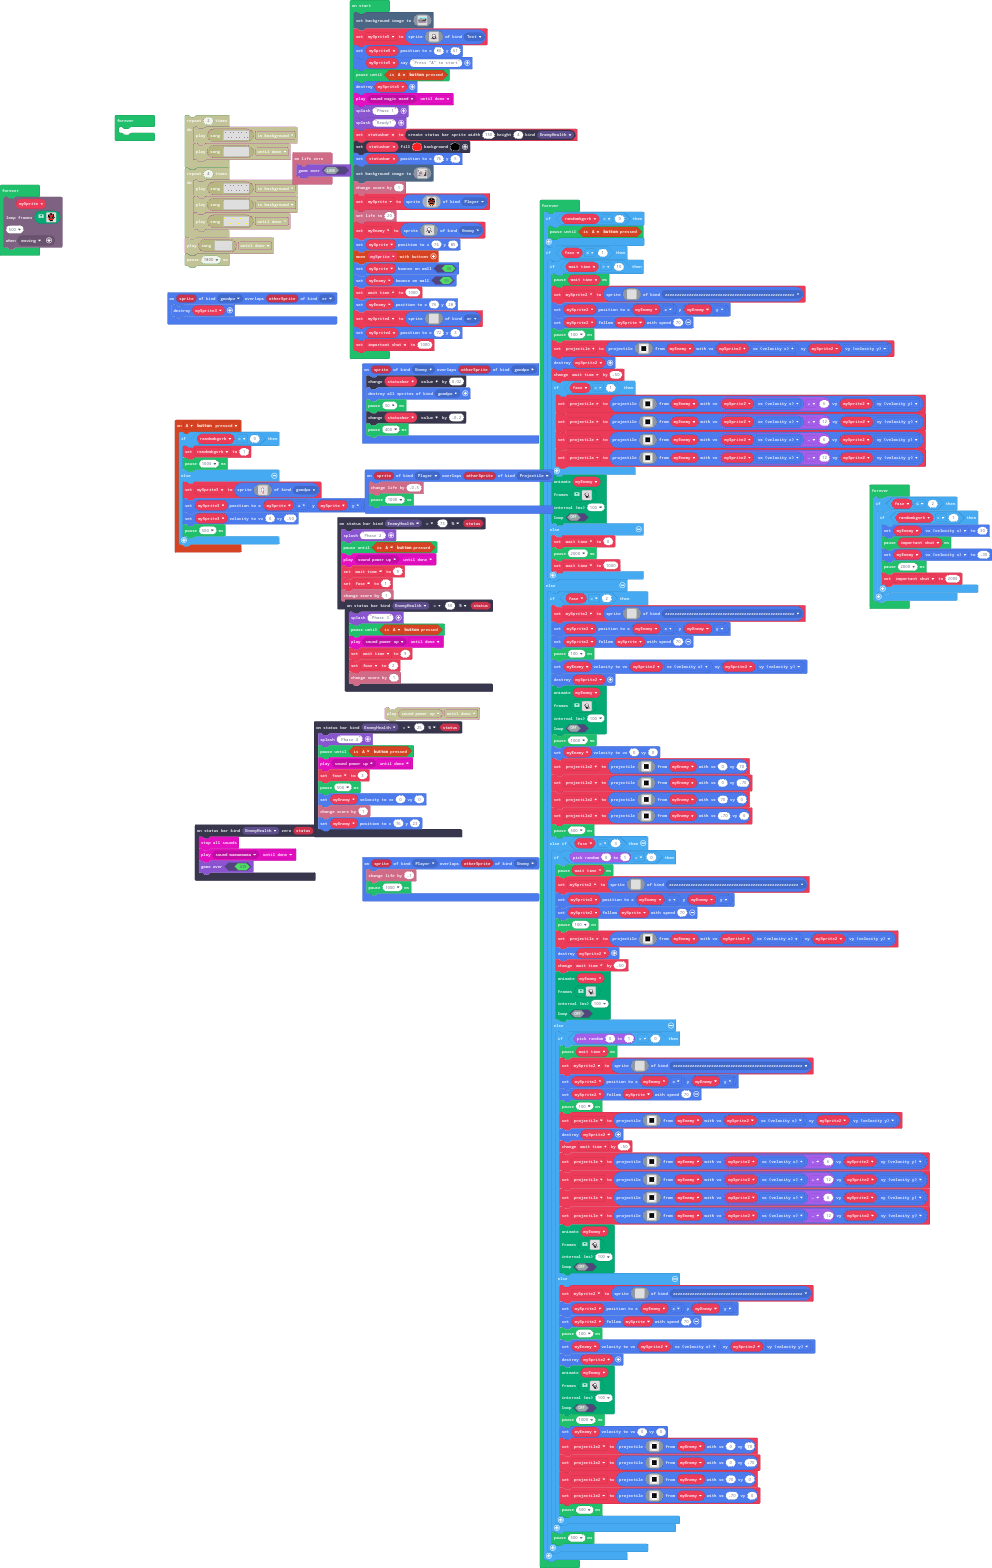
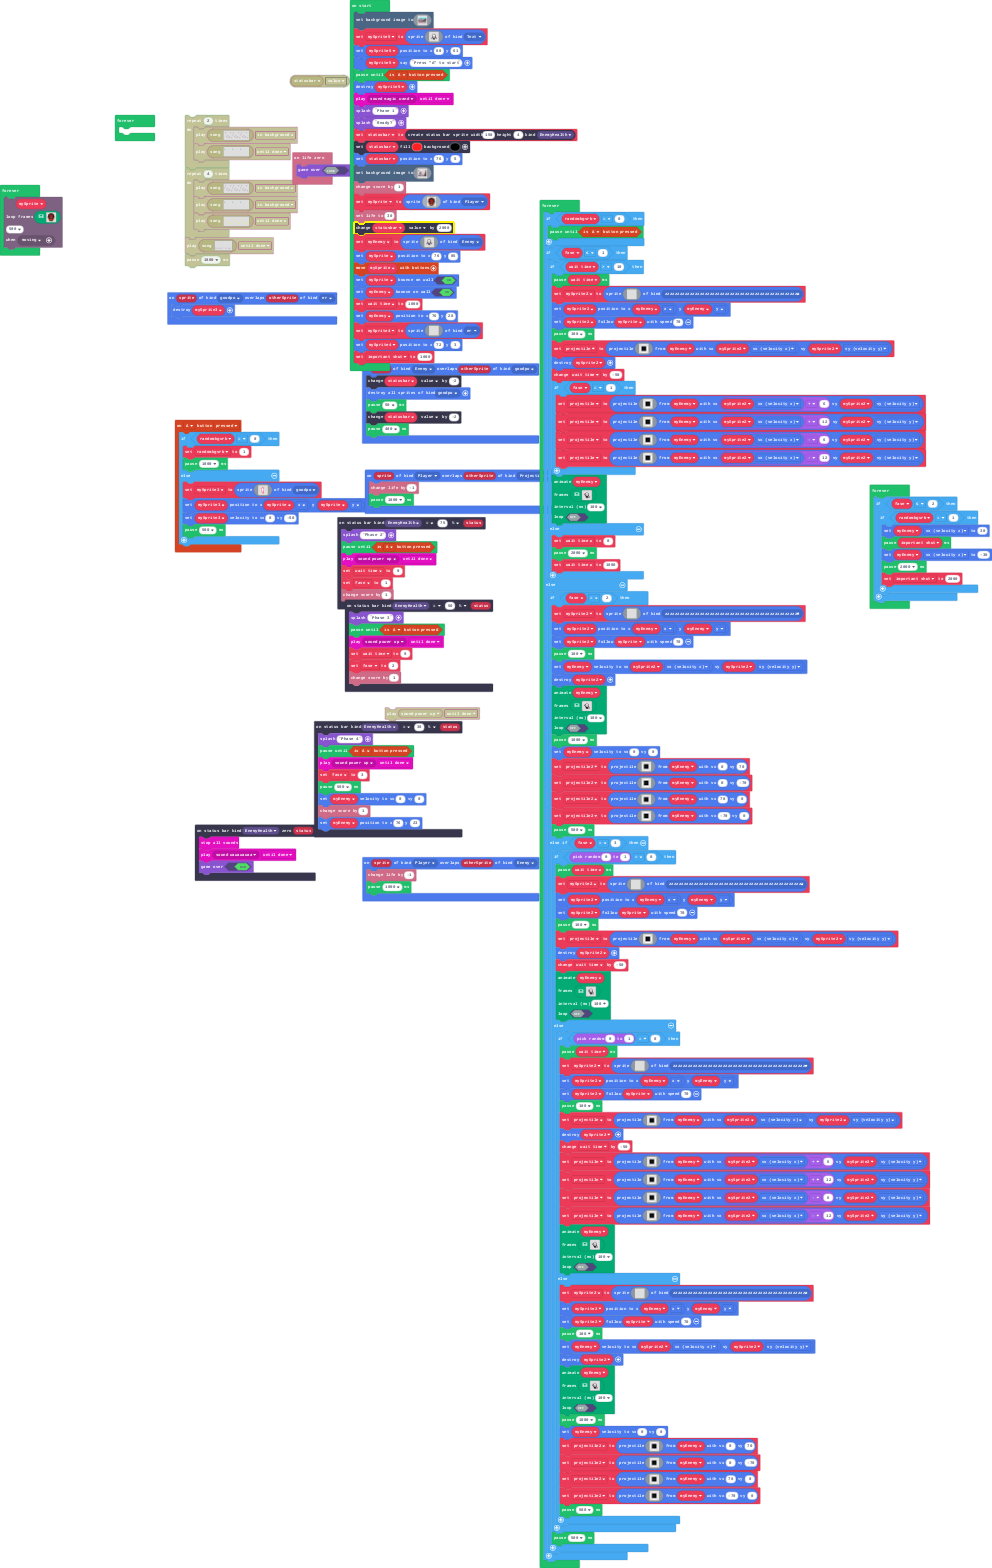
Update main.blocks, main.ts

diff --git a/main.ts b/main.ts
@@ -5,10 +5,10 @@ namespace SpriteKind {
     export const Text = SpriteKind.create()
 }
 sprites.onOverlap(SpriteKind.Enemy, SpriteKind.goodpo, function (sprite, otherSprite) {
-    statusbar.value += 0.02
+    statusbar.value += -2
     sprites.destroyAllSpritesOfKind(SpriteKind.goodpo)
     pause(50)
-    statusbar.value += -0.2
+    statusbar.value += -2
     pause(400)
 })
 statusbars.onStatusReached(StatusBarKind.EnemyHealth, statusbars.StatusComparison.EQ, statusbars.ComparisonType.Percentage, 50, function (status) {
@@ -58,16 +58,7 @@ controller.A.onEvent(ControllerButtonEvent.Pressed, function () {
         pause(500)
     }
 })
-statusbars.onZero(StatusBarKind.EnemyHealth, function (status) {
-    music.stopAllSounds()
-    music.play(music.melodyPlayable(music.wawawawaa), music.PlaybackMode.UntilDone)
-    game.gameOver(true)
-})
-sprites.onOverlap(SpriteKind.Player, SpriteKind.Projectile, function (sprite, otherSprite) {
-    info.changeLifeBy(-0.5)
-    pause(1000)
-})
-statusbars.onStatusReached(StatusBarKind.EnemyHealth, statusbars.StatusComparison.EQ, statusbars.ComparisonType.Percentage, 25, function (status) {
+statusbars.onStatusReached(StatusBarKind.EnemyHealth, statusbars.StatusComparison.EQ, statusbars.ComparisonType.Percentage, 30, function (status) {
     game.splash("Phase 4")
     pauseUntil(() => controller.A.isPressed())
     music.play(music.melodyPlayable(music.powerUp), music.PlaybackMode.UntilDone)
@@ -76,6 +67,15 @@ statusbars.onStatusReached(StatusBarKind.EnemyHealth, statusbars.StatusCompariso
     myEnemy.setVelocity(0, 0)
     info.changeScoreBy(1)
     myEnemy.setPosition(76, 23)
+})
+statusbars.onZero(StatusBarKind.EnemyHealth, function (status) {
+    music.stopAllSounds()
+    music.play(music.melodyPlayable(music.wawawawaa), music.PlaybackMode.UntilDone)
+    game.gameOver(true)
+})
+sprites.onOverlap(SpriteKind.Player, SpriteKind.Projectile, function (sprite, otherSprite) {
+    info.changeLifeBy(-1)
+    pause(1000)
 })
 info.onLifeZero(function () {
     game.gameOver(false)
@@ -393,7 +393,8 @@ mySprite = sprites.create(img`
     . . . . . f f f f f f . . . . . 
     . . . . . f f . . f f . . . . . 
     `, SpriteKind.Player)
-info.setLife(20)
+info.setLife(30)
+statusbar.value += 2000
 myEnemy = sprites.create(img`
     ........................
     ........................
